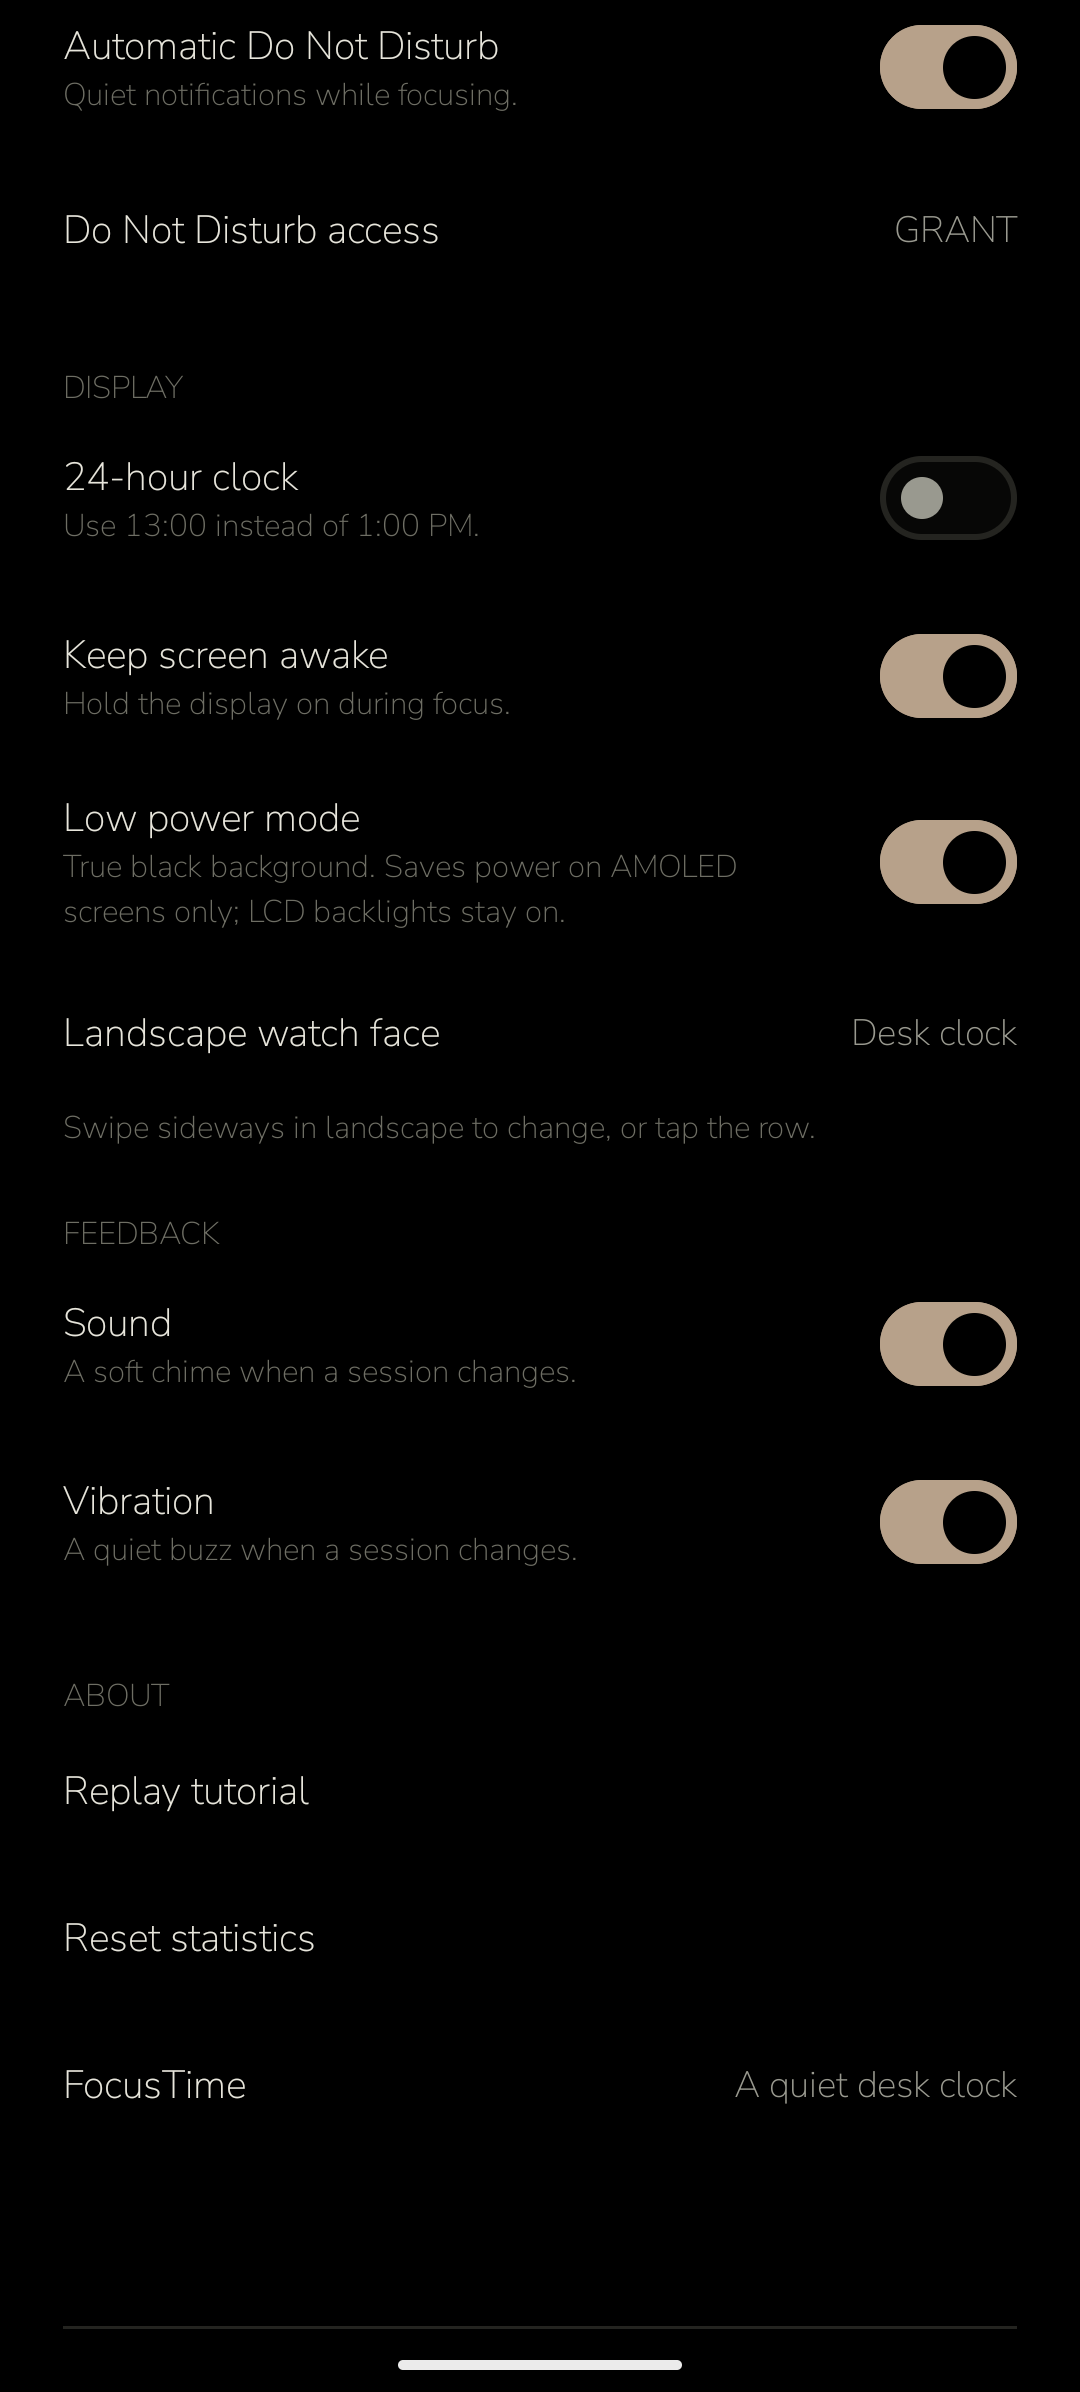
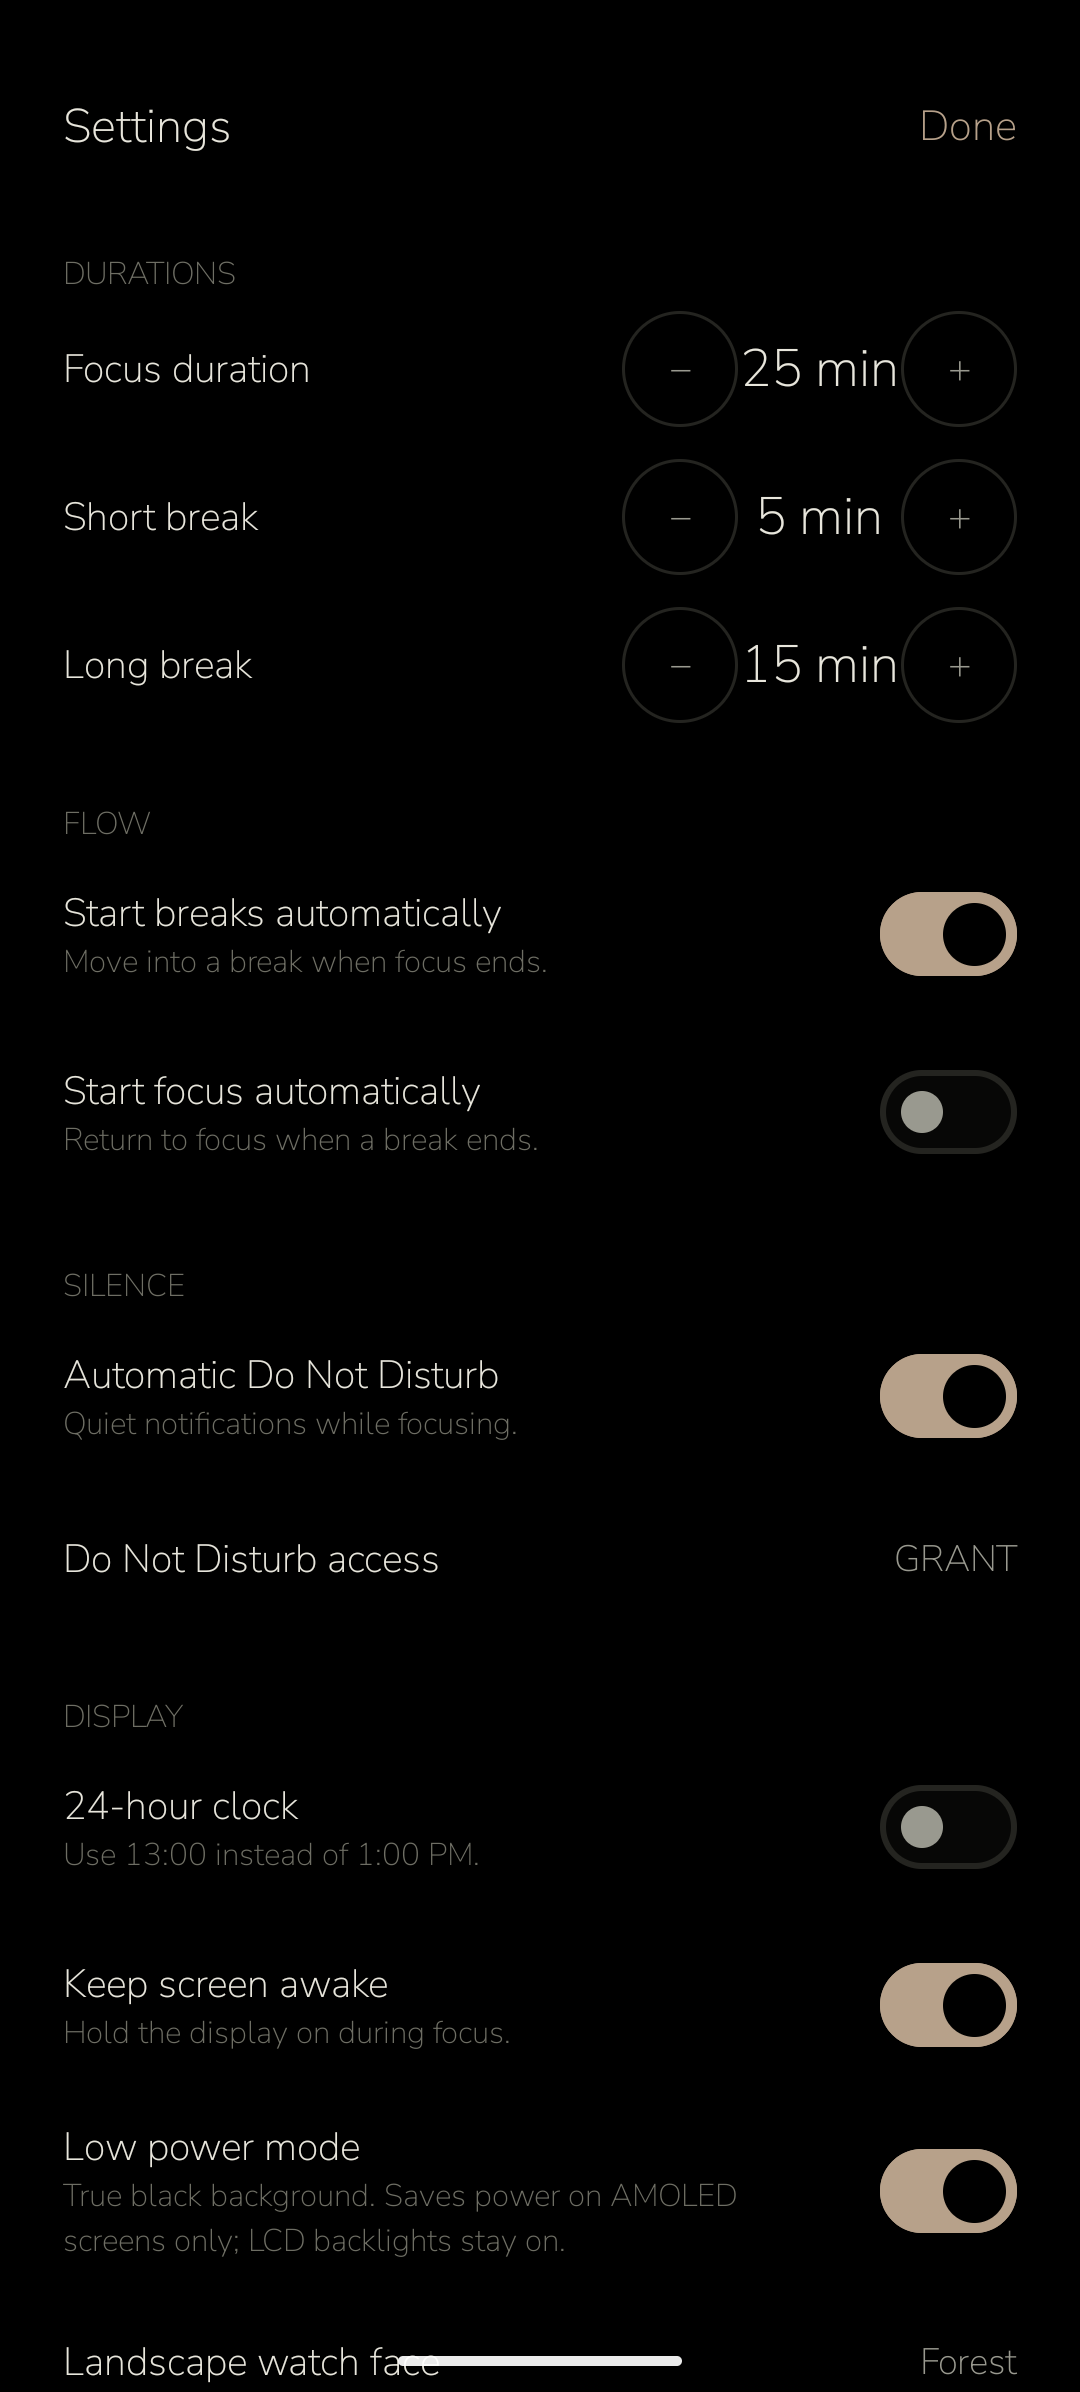
Add an About screen and sign release builds for 1.1.0.
About FocusTime names the creator, links the source and email, reports the running version, and shows the MIT and Nunito Sans licences without leaving the app; releases are now signed from a gitignored keystore so the published APK installs and upgrades in place.

diff --git a/app/src/main/java/com/rabindra/focustime/ui/about/AboutScreen.kt b/app/src/main/java/com/rabindra/focustime/ui/about/AboutScreen.kt
@@ -1,0 +1,183 @@
+package com.rabindra.focustime.ui.about
+
+import androidx.compose.foundation.background
+import androidx.compose.foundation.layout.Arrangement
+import androidx.compose.foundation.layout.Column
+import androidx.compose.foundation.layout.Row
+import androidx.compose.foundation.layout.Spacer
+import androidx.compose.foundation.layout.fillMaxSize
+import androidx.compose.foundation.layout.fillMaxWidth
+import androidx.compose.foundation.layout.height
+import androidx.compose.foundation.layout.heightIn
+import androidx.compose.foundation.layout.padding
+import androidx.compose.foundation.rememberScrollState
+import androidx.compose.foundation.verticalScroll
+import androidx.compose.material3.AlertDialog
+import androidx.compose.material3.Text
+import androidx.compose.material3.TextButton
+import androidx.compose.runtime.Composable
+import androidx.compose.runtime.getValue
+import androidx.compose.runtime.mutableStateOf
+import androidx.compose.runtime.remember
+import androidx.compose.runtime.setValue
+import androidx.compose.ui.Alignment
+import androidx.compose.ui.Modifier
+import androidx.compose.ui.platform.LocalUriHandler
+import androidx.compose.ui.unit.dp
+import com.rabindra.focustime.BuildConfig
+import com.rabindra.focustime.ui.components.Hairline
+import com.rabindra.focustime.ui.components.QuietAction
+import com.rabindra.focustime.ui.components.SettingsRow
+import com.rabindra.focustime.ui.theme.FocusSpacing
+import com.rabindra.focustime.ui.theme.FocusType
+import com.rabindra.focustime.ui.theme.LocalFocusPalette
+
+internal const val CREATOR_NAME = "Rabindra Kumar Meher"
+internal const val PROJECT_URL = "https://github.com/rabindra789/FocusTime"
+internal const val CONTACT_EMAIL = "rabindrameher116@gmail.com"
+
+internal const val MIT_LICENSE = """MIT License
+
+Copyright (c) 2026 Rabindra Kumar Meher
+
+Permission is hereby granted, free of charge, to any person obtaining a copy
+of this software and associated documentation files (the "Software"), to deal
+in the Software without restriction, including without limitation the rights
+to use, copy, modify, merge, publish, distribute, sublicense, and/or sell
+copies of the Software, and to permit persons to whom the Software is
+furnished to do so, subject to the following conditions:
+
+The above copyright notice and this permission notice shall be included in all
+copies or substantial portions of the Software.
+
+THE SOFTWARE IS PROVIDED "AS IS", WITHOUT WARRANTY OF ANY KIND, EXPRESS OR
+IMPLIED, INCLUDING BUT NOT LIMITED TO THE WARRANTIES OF MERCHANTABILITY,
+FITNESS FOR A PARTICULAR PURPOSE AND NONINFRINGEMENT. IN NO EVENT SHALL THE
+AUTHORS OR COPYRIGHT HOLDERS BE LIABLE FOR ANY CLAIM, DAMAGES OR OTHER
+LIABILITY, WHETHER IN AN ACTION OF CONTRACT, TORT OR OTHERWISE, ARISING FROM,
+OUT OF OR IN CONNECTION WITH THE SOFTWARE OR THE USE OR OTHER DEALINGS IN THE
+SOFTWARE."""
+
+internal const val FONT_LICENSE_NOTE = """Nunito Sans is used under the SIL Open Font License 1.1.
+
+Copyright 2016 The Nunito Sans Project Authors
+(https://github.com/Fonthausen/NunitoSans)
+
+The full licence ships with the source tree in
+licenses/NunitoSans-OFL.txt."""
+
+/** Creator, version and licences. Nothing here is interactive except the links. */
+@Composable
+fun AboutScreen(
+    onBack: () -> Unit,
+    modifier: Modifier = Modifier,
+    versionName: String = BuildConfig.VERSION_NAME,
+    versionCode: Int = BuildConfig.VERSION_CODE,
+) {
+    val palette = LocalFocusPalette.current
+    val uriHandler = LocalUriHandler.current
+    var license by remember { mutableStateOf<Pair<String, String>?>(null) }
+
+    Column(
+        modifier
+            .fillMaxSize()
+            .background(palette.background)
+            .verticalScroll(rememberScrollState())
+            .padding(horizontal = FocusSpacing.lg, vertical = FocusSpacing.lg),
+    ) {
+        Row(
+            modifier = Modifier.fillMaxWidth(),
+            horizontalArrangement = Arrangement.SpaceBetween,
+            verticalAlignment = Alignment.CenterVertically,
+        ) {
+            Text(text = "About", style = FocusType.title, color = palette.textPrimary)
+            QuietAction(
+                label = "Done",
+                onClick = onBack,
+                color = palette.accent,
+                horizontalPadding = 0.dp,
+            )
+        }
+
+        Spacer(Modifier.height(FocusSpacing.lg))
+
+        Text(text = "FocusTime", style = FocusType.title, color = palette.textPrimary)
+        Text(
+            text = "A quiet Pomodoro desk clock.",
+            style = FocusType.body,
+            color = palette.textSecondary,
+        )
+        Spacer(Modifier.height(FocusSpacing.lg))
+        Hairline()
+        Spacer(Modifier.height(FocusSpacing.lg))
+
+        SectionLabel("Version")
+        SettingsRow(label = "App version", value = "$versionName ($versionCode)")
+
+        Spacer(Modifier.height(FocusSpacing.lg))
+        SectionLabel("Creator")
+        SettingsRow(label = CREATOR_NAME, value = "GitHub \u2197", onClick = {
+            runCatching { uriHandler.openUri("https://github.com/rabindra789") }
+        })
+        SettingsRow(label = CONTACT_EMAIL, value = "Email \u2197", onClick = {
+            runCatching { uriHandler.openUri("mailto:$CONTACT_EMAIL") }
+        })
+        SettingsRow(label = "Source code", value = "GitHub \u2197", onClick = {
+            runCatching { uriHandler.openUri(PROJECT_URL) }
+        })
+
+        Spacer(Modifier.height(FocusSpacing.lg))
+        SectionLabel("License")
+        SettingsRow(
+            label = "MIT License",
+            value = "VIEW",
+            onClick = { license = "MIT License" to MIT_LICENSE },
+        )
+        SettingsRow(
+            label = "Nunito Sans",
+            value = "OFL 1.1",
+            onClick = { license = "SIL Open Font License 1.1" to FONT_LICENSE_NOTE },
+        )
+
+        Spacer(Modifier.height(FocusSpacing.huge))
+        Hairline()
+        Spacer(Modifier.height(FocusSpacing.lg))
+        Text(
+            text = "\u00a9 2026 $CREATOR_NAME",
+            style = FocusType.caption,
+            color = palette.textMuted,
+        )
+    }
+
+    license?.let { (title, body) ->
+        AlertDialog(
+            onDismissRequest = { license = null },
+            title = { Text(text = title, style = FocusType.body, color = palette.textPrimary) },
+            text = {
+                Text(
+                    text = body,
+                    style = FocusType.caption,
+                    color = palette.textSecondary,
+                    modifier = Modifier
+                        .heightIn(max = 420.dp)
+                        .verticalScroll(rememberScrollState()),
+                )
+            },
+            confirmButton = {
+                TextButton(onClick = { license = null }) {
+                    Text(text = "Close", color = palette.accent)
+                }
+            },
+            containerColor = palette.surface,
+        )
+    }
+}
+
+@Composable
+private fun SectionLabel(text: String) {
+    Text(
+        text = text.uppercase(),
+        style = FocusType.caption,
+        color = LocalFocusPalette.current.textMuted,
+    )
+}

diff --git a/app/src/androidTest/java/com/rabindra/focustime/AboutUiTest.kt b/app/src/androidTest/java/com/rabindra/focustime/AboutUiTest.kt
@@ -1,0 +1,44 @@
+package com.rabindra.focustime
+
+import androidx.compose.ui.test.assertIsDisplayed
+import androidx.compose.ui.test.junit4.createComposeRule
+import androidx.compose.ui.test.onNodeWithText
+import androidx.compose.ui.test.performClick
+import androidx.compose.ui.test.performScrollTo
+import androidx.test.ext.junit.runners.AndroidJUnit4
+import com.rabindra.focustime.ui.about.AboutScreen
+import com.rabindra.focustime.ui.about.CREATOR_NAME
+import com.rabindra.focustime.ui.theme.FocusTimeTheme
+import org.junit.Rule
+import org.junit.Test
+import org.junit.runner.RunWith
+
+@RunWith(AndroidJUnit4::class)
+class AboutUiTest {
+
+    @get:Rule
+    val rule = createComposeRule()
+
+    private fun showAbout() {
+        rule.setContent {
+            FocusTimeTheme(darkTheme = true) {
+                AboutScreen(onBack = {}, versionName = "1.1.0", versionCode = 2)
+            }
+        }
+    }
+
+    @Test
+    fun aboutNamesCreatorAndVersion() {
+        showAbout()
+        rule.onNodeWithText(CREATOR_NAME).performScrollTo().assertIsDisplayed()
+        rule.onNodeWithText("1.1.0 (2)").assertIsDisplayed()
+    }
+
+    @Test
+    fun licenseCanBeReadInApp() {
+        showAbout()
+        rule.onNodeWithText("MIT License").performScrollTo().performClick()
+        rule.onNodeWithText("Permission is hereby granted", substring = true)
+            .assertIsDisplayed()
+    }
+}

diff --git a/app/src/main/java/com/rabindra/focustime/ui/FocusTimeApp.kt b/app/src/main/java/com/rabindra/focustime/ui/FocusTimeApp.kt
@@ -22,6 +22,7 @@ import androidx.core.view.WindowCompat
 import androidx.core.view.WindowInsetsCompat
 import androidx.core.view.WindowInsetsControllerCompat
 import com.rabindra.focustime.FocusTimeViewModel
+import com.rabindra.focustime.ui.about.AboutScreen
 import com.rabindra.focustime.ui.dashboard.DashboardScreen
 import com.rabindra.focustime.ui.landscape.LandscapeClockScreen
 import com.rabindra.focustime.ui.settings.SettingsScreen
@@ -29,7 +30,7 @@ import com.rabindra.focustime.ui.statistics.StatisticsScreen
 import com.rabindra.focustime.ui.theme.LowPowerPalette
 import com.rabindra.focustime.ui.theme.LocalFocusPalette
 
-private enum class PortraitScreen { Timer, Statistics, Settings }
+private enum class PortraitScreen { Timer, Statistics, Settings, About }
 
 /**
  * Keeps the status bar out of the way, and takes the navigation bar too when the
@@ -131,6 +132,11 @@ fun FocusTimeApp(viewModel: FocusTimeViewModel) {
                         viewModel.refreshDndAccess()
                     },
                     onBack = { screen = PortraitScreen.Timer },
+                    onAbout = { screen = PortraitScreen.About },
+                )
+
+                PortraitScreen.About -> AboutScreen(
+                    onBack = { screen = PortraitScreen.Settings },
                 )
             }
         }

diff --git a/app/src/main/java/com/rabindra/focustime/ui/settings/SettingsScreen.kt b/app/src/main/java/com/rabindra/focustime/ui/settings/SettingsScreen.kt
@@ -37,6 +37,7 @@ fun SettingsScreen(
     onOpenDndSettings: () -> Unit,
     onBack: () -> Unit,
     modifier: Modifier = Modifier,
+    onAbout: () -> Unit = {},
 ) {
     val palette = LocalFocusPalette.current
 
@@ -201,8 +202,8 @@ fun SettingsScreen(
             onClick = onResetStatistics,
         )
         SettingsRow(
-            label = "FocusTime",
-            value = "A quiet desk clock",
+            label = "About FocusTime",
+            onClick = onAbout,
         )
 
         Spacer(Modifier.height(FocusSpacing.huge))

diff --git a/README.md b/README.md
@@ -6,6 +6,10 @@ Do Not Disturb, built for a Nothing Phone (3a) Lite (`A001T`, Android 16 / API 3
 Kotlin · Jetpack Compose · Material 3 · MVVM · Coroutines/StateFlow · Preferences DataStore.
 No account, no network, no analytics, no ads.
 
+Created by [Rabindra Kumar Meher](https://github.com/rabindra789) and released under the
+[MIT License](LICENSE). Download the signed APK from
+[Releases](https://github.com/rabindra789/FocusTime/releases/latest).
+
 | Portrait timer (low power) | Landscape desk clock |
 | --- | --- |
 | ![Portrait](releases/device-portrait-lowpower.png) | ![Clock](releases/device-landscape.png) |
@@ -21,6 +25,8 @@ No account, no network, no analytics, no ads.
 | ![Controls](releases/device-landscape-controls.png) | ![Settings](releases/device-settings.png) |
 | **Reset confirmation** | **First-run tutorial** |
 | ![Reset](releases/device-reset-confirm.png) | ![Tutorial](releases/device-tutorial.png) |
+| **About** | |
+| ![About](releases/device-about.png) | |
 
 All screenshots are from a Nothing Phone (3a) Lite in the current build; the portrait shot shows
 **Low power mode** on.
@@ -159,11 +165,26 @@ adb shell am start -n com.rabindra.focustime/.MainActivity
 The build also produces `app/build/outputs/apk/debug/app-debug.apk`.
 `releases/FocusTime-debug.apk` is a copy of that debug build.
 
+For a signed release build:
+
+```powershell
+.\gradlew.bat assembleRelease
+# app/build/outputs/apk/release/app-release.apk
+```
+
+## Download
+
+Every published build is attached to a
+[GitHub release](https://github.com/rabindra789/FocusTime/releases); the current one is
+`FocusTime-1.1.0.apk` (signed, `versionCode` 2). Sideload it with
+`adb install -r FocusTime-1.1.0.apk`. The release build uses the same application id as the debug
+build but a different signing key, so uninstall the debug build before switching.
+
 ## Tests
 
 ```powershell
 .\gradlew.bat testDebugUnitTest          # 79 JVM tests
-.\gradlew.bat connectedDebugAndroidTest  # 7 Compose UI tests on a device
+.\gradlew.bat connectedDebugAndroidTest  # 9 Compose UI tests on a device
 ```
 
 Latest run on the Nothing Phone (3a) Lite (`A001T`, Android 16 / API 36):
@@ -171,12 +192,13 @@ Latest run on the Nothing Phone (3a) Lite (`A001T`, Android 16 / API 36):
 | Suite | Result |
 | --- | --- |
 | `testDebugUnitTest` | 79 tests, 0 failures, 0 skipped |
-| `connectedDebugAndroidTest` | 7 tests, 0 failures |
+| `connectedDebugAndroidTest` | 9 tests, 0 failures |
 | `assembleDebug` | success — `releases/FocusTime-debug.apk` (10.8 MB) |
+| `assembleRelease` | success — signed `app-release.apk` (7.4 MB) |
 
 The UI tests cover the countdown and session label, tap-to-start, the running/paused secondary
-controls, the duration stepper, the DND rows in Settings, and the watch-face row with the low
-power toggle.
+controls, the duration stepper, the DND rows in Settings, the watch-face row with the low
+power toggle, and the About screen's creator, version and in-app licence text.
 
 The unit tests now include regressions for the timer reset bugs: a new focus session starts at the
 configured duration, elapsed time never carries into a new cycle, reset restores the configured
@@ -263,30 +285,34 @@ apps that declare `ACCESS_NOTIFICATION_POLICY` (this was fixed during device tes
 
 ## Release signing
 
-No signing configuration is included, so `assembleRelease` produces
-`app/build/outputs/apk/release/app-release-unsigned.apk`, which is **not installable**. To sign
-securely, create a keystore outside the repo and read credentials from environment variables or
-`~/.gradle/gradle.properties` — never commit them:
+The release build is signed from `keystore.properties` in the repo root, which is **not
+committed**, together with the keystore it points at:
 
-```powershell
-keytool -genkeypair -v -keystore "$env:USERPROFILE\focustime-release.jks" `
-  -alias focustime -keyalg RSA -keysize 4096 -validity 10000
+```properties
+storeFile=keystore/focustime-release.jks
+storePassword=…
+keyAlias=focustime
+keyPassword=…
 ```
 
-```kotlin
-// app/build.gradle.kts
-android {
-    signingConfigs {
-        create("release") {
-            storeFile = file(System.getenv("FOCUSTIME_KEYSTORE") ?: "missing.jks")
-            storePassword = System.getenv("FOCUSTIME_STORE_PASSWORD")
-            keyAlias = "focustime"
-            keyPassword = System.getenv("FOCUSTIME_KEY_PASSWORD")
-        }
-    }
-    buildTypes { release { signingConfig = signingConfigs.getByName("release") } }
-}
-```
+Both `keystore.properties` and `keystore/` are listed in `.gitignore`. `app/build.gradle.kts`
+reads the file when it exists and signs the `release` build type with it; without the file,
+`assembleRelease` falls back to an unsigned APK. Keep the keystore and its password backed up:
+losing them means future builds cannot upgrade an installed release.
+
+Certificate (SHA-256):
+`5D:5E:50:E0:ED:1F:C1:75:81:FA:B3:F1:D1:A8:ED:07:FC:3B:7F:D5:91:5E:52:BE:4E:74:95:1C:3E:02:30:38`.
+
+## Creator and license
+
+FocusTime is written by **Rabindra Kumar Meher** —
+[github.com/rabindra789](https://github.com/rabindra789),
+[rabindrameher116@gmail.com](mailto:rabindrameher116@gmail.com).
+
+The app source is released under the [MIT License](LICENSE), © 2026 Rabindra Kumar Meher.
+The Nunito Sans typeface is used under the SIL Open Font License 1.1; the full text ships in
+[`licenses/NunitoSans-OFL.txt`](licenses/NunitoSans-OFL.txt). Both licences are readable in the
+app under Settings → About FocusTime.
 
 ## Known limitations
 
